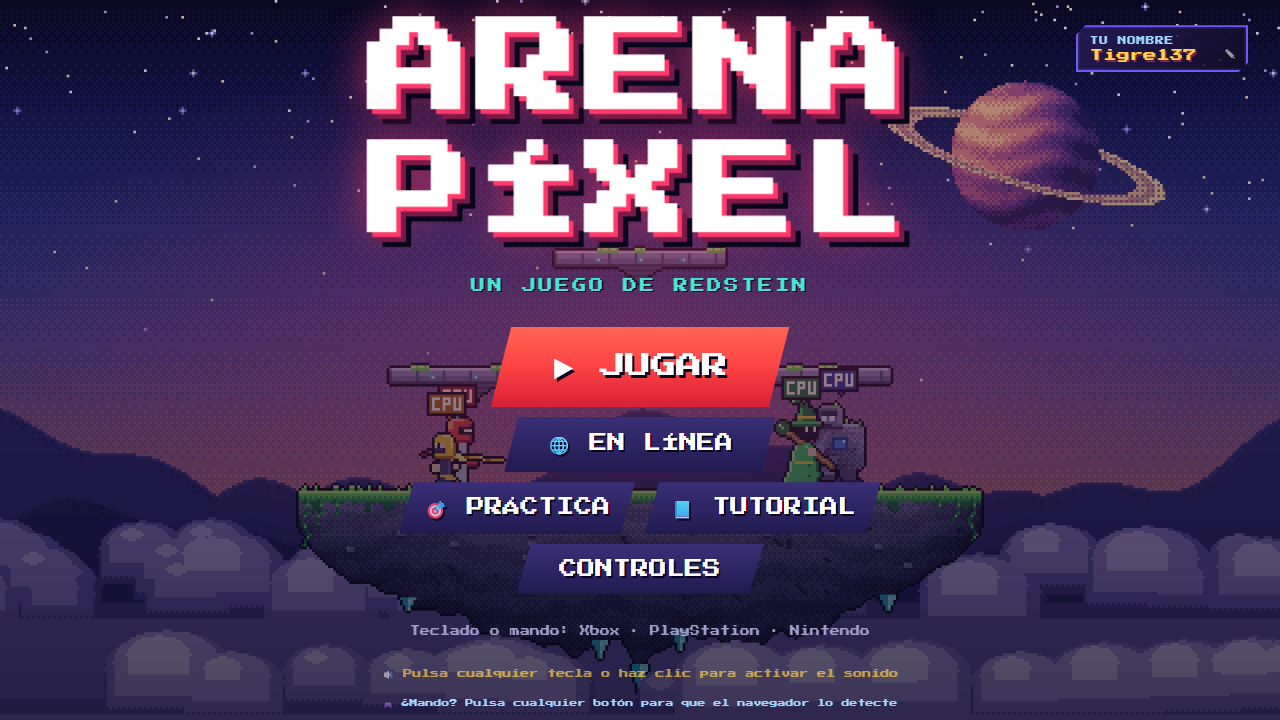
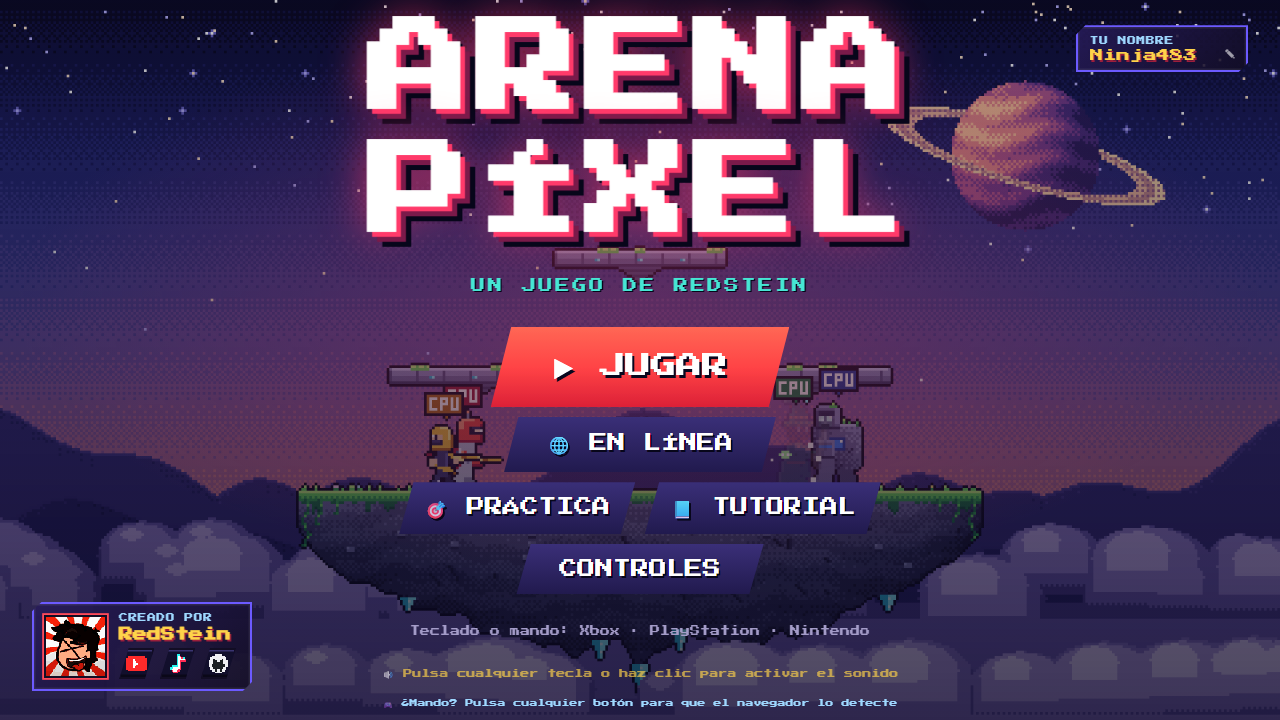
Tarjeta del creador en la portada (YouTube, TikTok, GitHub) y README actualizado
- Abajo a la izquierda: logo de RedStein en pixel art y botones a YouTube,
  TikTok y GitHub (se abren en otra pestaña; también con el mando)
- README: sección del creador, insignias de redes, opciones de combate,
  muerte súbita, resultados nuevos y portada actual

diff --git a/index.html b/index.html
@@ -431,6 +431,22 @@
     text-shadow: .12em .12em 0 #9c1f3c; }
   #nickBox i { position: absolute; right: .8em; bottom: .75em; font-style: normal; color: #fff; opacity: .6; }
   #nickBox:focus-within { border-color: var(--gold); }
+  /* tarjeta del creador (abajo a la izquierda de la portada) */
+  #creator { position: absolute; left: 2.5%; bottom: 4%; z-index: 5; display: flex; align-items: center; gap: 1em;
+    font-size: clamp(7px, .95cqw, 15px); padding: .8em 1.2em .8em .8em;
+    background: linear-gradient(135deg, rgba(40,28,90,.88), rgba(18,13,36,.88)); border: .2em solid #6c5aff;
+    clip-path: polygon(.8em 0, 100% 0, 100% calc(100% - .8em), calc(100% - .8em) 100%, 0 100%, 0 .8em);
+    box-shadow: inset 0 0 0 .12em rgba(255,255,255,.08); }
+  #creator img { width: 5.2em; height: 5.2em; image-rendering: pixelated; border: .2em solid var(--line); box-shadow: 0 0 0 .15em #ff4a5a; }
+  #creator .crInfo { display: flex; flex-direction: column; gap: .35em; }
+  #creator small { color: #9fd8ff; font-size: .7em; letter-spacing: .1em; }
+  #creator b { color: var(--gold); font-size: 1.15em; text-shadow: .12em .12em 0 #9c1f3c; }
+  #creator .crLinks { display: flex; gap: .45em; margin-top: .25em; }
+  #creator .crBtn { display: flex; align-items: center; justify-content: center; font-size: 1em; width: 2.9em; height: 2.6em; padding: 0; margin: 0; min-width: 0;
+    background: #120f2c; border: .2em solid var(--line); box-shadow: inset 0 -.2em 0 #0a0818, inset 0 .12em 0 var(--hi); color: #fff; }
+  #creator .crBtn svg { width: 1.7em; height: 1.6em; flex: none; }
+  #creator .crBtn span { display: none; }      /* solo iconos: la tarjeta no invade el menú (el nombre sale al pasar el ratón) */
+  #creator .crBtn:hover, #creator .crBtn.focus { background: #2b2460; color: var(--gold); }
   #nickBox:focus-within i { opacity: 1; }
   .titleRow { display: flex; gap: .6em; justify-content: center; }
   #title .titleRow button { padding: .8em 1.4em; }
@@ -497,6 +513,17 @@
 
   <!-- portada -->
   <div id="title" class="ui dim on">
+    <div id="creator">
+      <img src="img/redstein.png" alt="Logo de RedStein" width="80" height="80">
+      <div class="crInfo">
+        <small>CREADO POR</small><b>RedStein</b>
+        <div class="crLinks">
+          <button class="crBtn" data-url="https://www.youtube.com/@RedStein" title="Canal de YouTube" aria-label="YouTube"><svg viewBox="0 0 12 9" shape-rendering="crispEdges"><path fill="#ff2a2a" d="M1 0h10v1h1v7h-1v1H1v-1H0V1h1z"/><path fill="#fff" d="M4 2h1v1h1v1h1v1H6v1H5v1H4z"/></svg><span>YouTube</span></button>
+          <button class="crBtn" data-url="https://www.tiktok.com/@redstein_la" title="TikTok" aria-label="TikTok"><svg viewBox="0 0 11 12" shape-rendering="crispEdges"><path fill="#25f4ee" d="M5 0h2v1h1v1h2v2H7v5H6v1H5v1H2v-1H1V8h1V7h3z"/><path fill="#fe2c55" d="M6 1h2v1h1v1h2v2H8v5H7v1H6v1H3v-1H2V9h1V8h3z"/><path fill="#fff" d="M6 1h1v1h1v1h2v1H7v5H6v1H5v1H3v-1H2V9h1V8h3z"/></svg><span>TikTok</span></button>
+          <button class="crBtn" data-url="https://github.com/RedSteinYT" title="Perfil de GitHub" aria-label="GitHub"><svg viewBox="0 0 12 12" shape-rendering="crispEdges"><path fill="#f0f0f4" d="M4 0h4v1h2v1h1v2h1v4h-1v2h-1v1H8v1H4v-1H2v-1H1V8H0V4h1V2h1V1h2z"/><path fill="#1b1f23" d="M3 3h1v1h1v1h2V4h1V3h1v3h1v2H9v1H8v2H7V9H5v2H4V9H3V8H2V6h1z"/></svg><span>GitHub</span></button>
+        </div>
+      </div>
+    </div>
     <label id="nickBox" title="Tu nombre en el modo en línea"><small>TU NOMBRE</small><input id="nick" maxlength="12" spellcheck="false" autocomplete="off"><i>✎</i></label>
     <div class="center">
       <h1>ARENA<br>PÍXEL</h1>

diff --git a/js/menu.js b/js/menu.js
@@ -178,6 +178,8 @@ document.querySelectorAll('#ctrlTabs button').forEach(b => b.onclick = () => { S
 
 // ---------- botones ----------
 $('bPlay').onclick = () => { Sfx.unlock(); Sfx.blip(); if (Net.isHost) Net.showLobby(); else Select.openMode(); };
+// enlaces del creador: se abren en otra pestaña (el juego sigue aquí)
+for (const b of document.querySelectorAll('#creator .crBtn')) b.onclick = () => { Sfx.blip(); window.open(b.dataset.url, '_blank', 'noopener'); };
 $('bOnline').onclick = () => { Sfx.unlock(); Sfx.blip(); Net.open(); };
 const notOnline = () => { if (Net.online) { toast('Sal de la sala en línea para practicar'); return false; } return true; };
 $('bPrac').onclick = () => { Sfx.unlock(); Sfx.blip(); if (notOnline()) Select.openPractice(); };

diff --git a/README.md b/README.md
@@ -4,7 +4,7 @@
 
 # Arena Píxel
 
-**Un juego de lucha de plataformas en pixel art, hecho por [RedStein](https://github.com/RedSteinYT).**
+**Un juego de lucha de plataformas en pixel art, hecho por [RedStein](https://www.youtube.com/@RedStein).**
 Hasta 4 jugadores en el mismo teclado o con mandos, o en línea con tus amigos sin instalar nada.
 
 ### [▶ JUGAR AHORA](https://redsteinyt.github.io/arena-pixel/)
@@ -13,6 +13,10 @@ Hasta 4 jugadores en el mismo teclado o con mandos, o en línea con tus amigos s
 ![Jugadores](https://img.shields.io/badge/jugadores-1_a_4-43c6f0?style=for-the-badge)
 ![En línea](https://img.shields.io/badge/en_línea-P2P_sin_servidores-5ee08a?style=for-the-badge)
 ![Sin instalar](https://img.shields.io/badge/instalar-nada-ffd34a?style=for-the-badge)
+
+[![YouTube](https://img.shields.io/badge/YouTube-@RedStein-ff0000?style=flat-square&logo=youtube&logoColor=white)](https://www.youtube.com/@RedStein)
+[![TikTok](https://img.shields.io/badge/TikTok-@redstein__la-000000?style=flat-square&logo=tiktok&logoColor=white)](https://www.tiktok.com/@redstein_la)
+[![GitHub](https://img.shields.io/badge/GitHub-RedSteinYT-24292f?style=flat-square&logo=github&logoColor=white)](https://github.com/RedSteinYT)
 
 </div>
 
@@ -30,8 +34,10 @@ Saca a tus rivales del escenario. Cuanto más daño (%) llevan, más lejos salen
 - **Combos de verdad.** Cadena de golpes 1-2-3, ataques que se encadenan subiendo de nivel y un **¡REMATE!** cuando cierras un combo con un ataque fuerte o un especial.
 - **14 objetos** que caen en plena pelea: armas que cambian tu ataque (espada láser, bláster, bumerán…), cosas para lanzar y poderes temporales.
 - **Pantalla VS** con pullas antes de cada combate y música rock propia para cada arena.
-- **Finales de película:** cámara lenta en el golpe final, zoom al ganador y animaciones de victoria y derrota propias de cada luchador.
-- **Temporizador** (2, 3, 5 u 8 minutos, o sin límite). Si se acaba el tiempo con empate en vidas: **¡MUERTE SÚBITA!**, todos al 300 % y el primer golpe decide.
+- **Finales de película:** cámara lenta en el golpe final, zoom al ganador y animaciones de victoria y derrota propias de cada luchador. Si el ganador (o su compañero de equipo) ya había caído, vuelve por un portal para celebrarlo.
+- **Opciones de combate:** vidas (1 a 9), tiempo (2, 3, 5 u 8 minutos, o sin límite) y objetos sí o no.
+- **¡MUERTE SÚBITA!** Si se acaba el tiempo con empate en vidas: un solo corazón, todos al 300 % y el más mínimo roce te saca de la arena.
+- **Resultados** con una tarjeta por luchador: su puesto, sus estadísticas y su animación de victoria o derrota.
 - **Modo en línea** con código de sala: uno crea la sala, los demás escriben el código y a pelear.
 - **PRÁCTICA y TUTORIAL** para aprender todo lo anterior paso a paso.
 
@@ -64,7 +70,7 @@ Saca a tus rivales del escenario. Cuanto más daño (%) llevan, más lejos salen
 | Modo | |
 |---|---|
 | **1 contra 1** | El duelo clásico. |
-| **2 contra 2** | Por equipos. |
+| **2 contra 2** | Por equipos: rojo contra azul. |
 | **Triple amenaza** | Tres luchadores, todos contra todos. |
 | **Todos contra todos** | Cuatro luchadores, caos total. |
 | **🌐 En línea** | Hasta 4 amigos, cada uno desde su casa, con un código de sala. |
@@ -100,6 +106,18 @@ Cualquier hueco libre se puede llenar con una CPU en nivel fácil, medio o difí
 
 La conexión va directa entre vuestros navegadores (WebRTC con [PeerJS](https://peerjs.com/)): no hay servidor del juego ni cuentas. Pon tu nombre en el recuadro de arriba a la derecha para que tus amigos sepan quién eres.
 
+## 🎬 El creador
+
+<img src="docs/img/redstein-logo.png" alt="Logo de RedStein" width="120" align="left">
+
+**RedStein** hace vídeos de videojuegos y este es su juego. Si te gusta, pásate por sus redes:
+
+- ▶ **YouTube:** [youtube.com/@RedStein](https://www.youtube.com/@RedStein)
+- ♪ **TikTok:** [tiktok.com/@redstein_la](https://www.tiktok.com/@redstein_la)
+- 🐙 **GitHub:** [github.com/RedSteinYT](https://github.com/RedSteinYT)
+
+<br clear="left">
+
 ## 🛠 Para desarrolladores
 
 Es HTML, CSS y JavaScript puro, sin dependencias de instalación ni paso de compilación. Todo el arte se dibuja con código y la música es un secuenciador de WebAudio.
@@ -129,6 +147,6 @@ js/modes/           práctica y tutorial
 
 <div align="center">
 
-Hecho con 🔥 por **RedStein** · [Jugar](https://redsteinyt.github.io/arena-pixel/)
+Hecho con 🔥 por **RedStein** · [Jugar](https://redsteinyt.github.io/arena-pixel/) · [YouTube](https://www.youtube.com/@RedStein) · [TikTok](https://www.tiktok.com/@redstein_la)
 
 </div>
